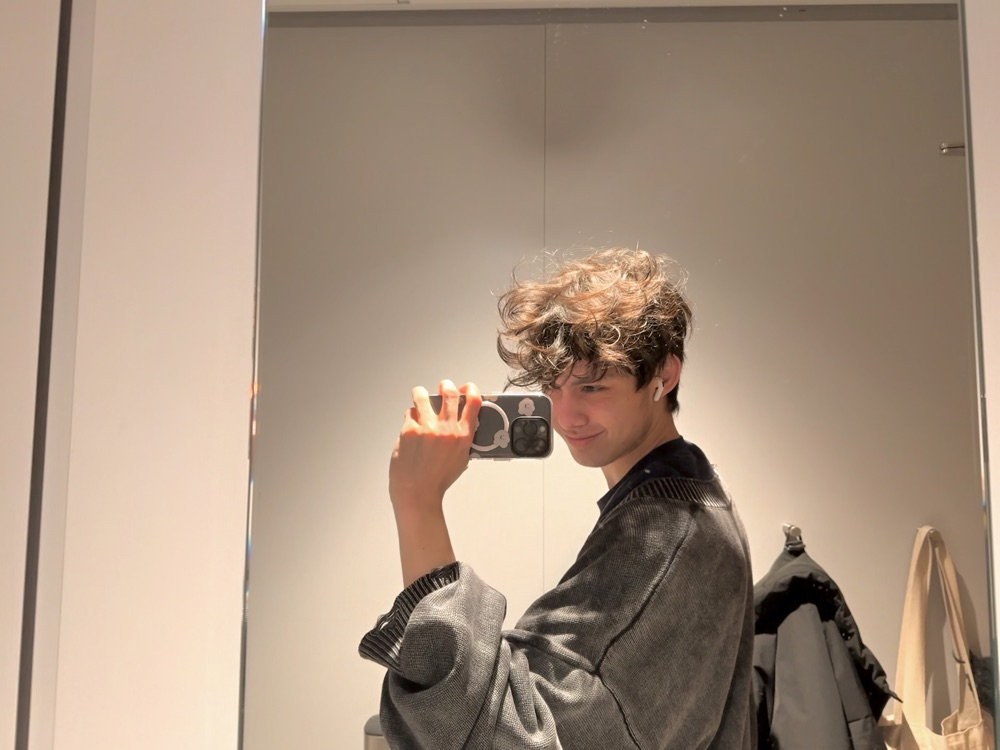
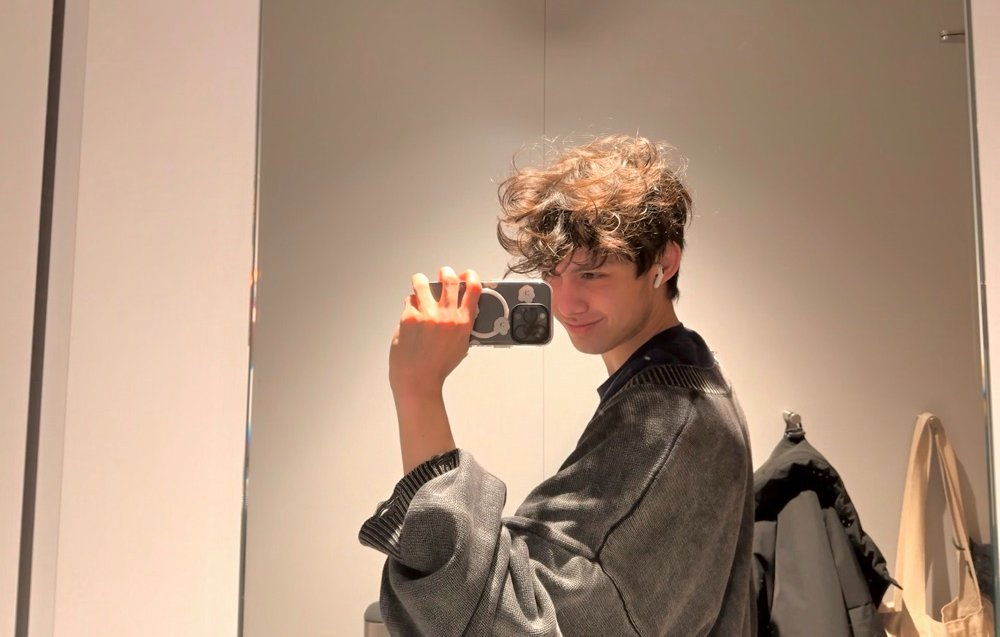
Square off About photo corners and crop top 15%

Changed region(s): [[0.248, 0.0, 1.0, 1.0], [0.0, 0.0, 0.093, 0.7755], [0.217, 0.7159, 0.248, 0.8352]]

diff --git a/index.html b/index.html
@@ -24,7 +24,7 @@
     </ul>
 
     <section id="about" class="panel" data-panel="about">
-      <img class="about-photo" src="about.jpg" alt="Christian Wang" width="1000" height="750">
+      <img class="about-photo" src="about.jpg" alt="Christian Wang" width="1000" height="637">
 
       <p>I'm Christian. I study Philosophy, Politics, and Economics (PPE) at the University of Oxford (Lincoln College) and spend most of my time either reading, discovering new caf&eacute;s, traveling, or trying out new hobbies (currently on painting and working out!).</p>
 

diff --git a/style.css b/style.css
@@ -95,7 +95,6 @@ h1.name {
   display: block;
   width: 72%;
   height: auto;
-  border-radius: 8px;
   margin-bottom: 2.5rem;
 }
 
